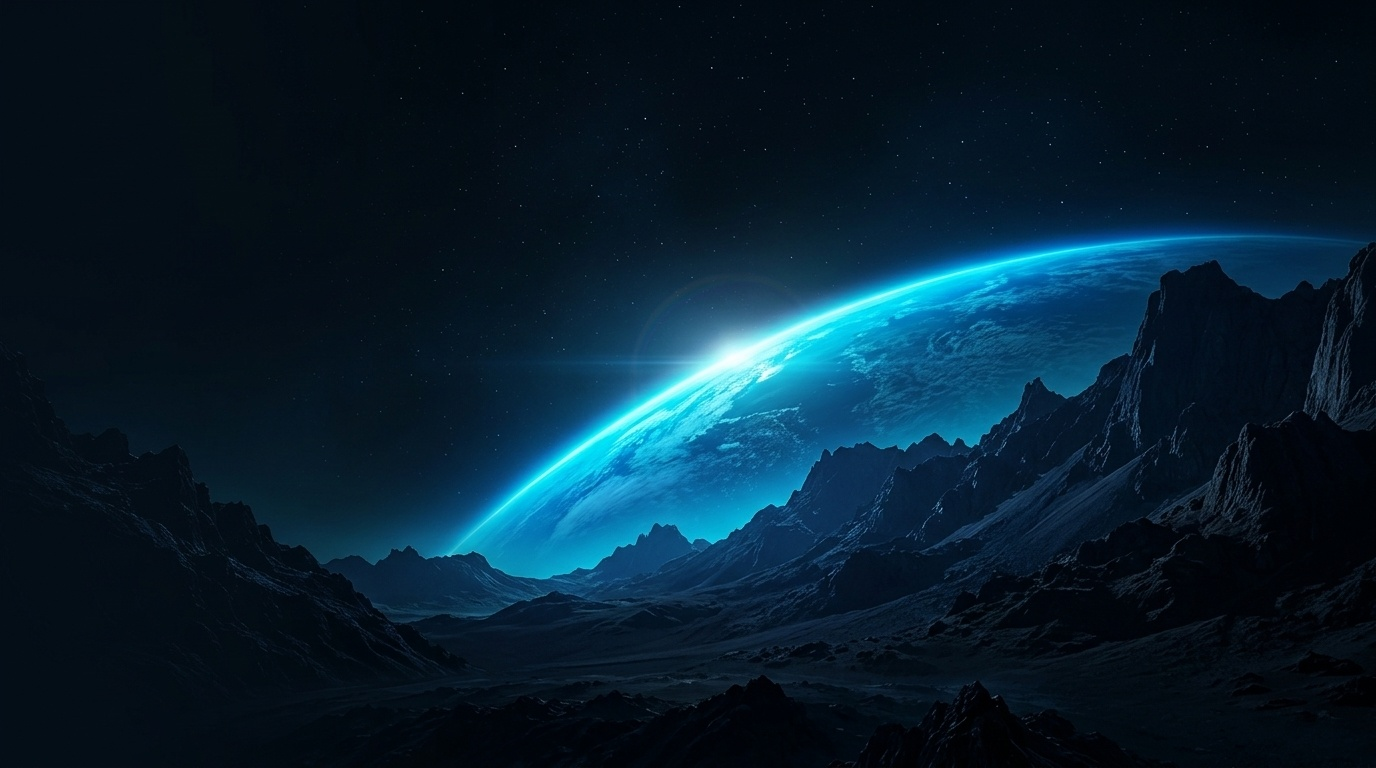
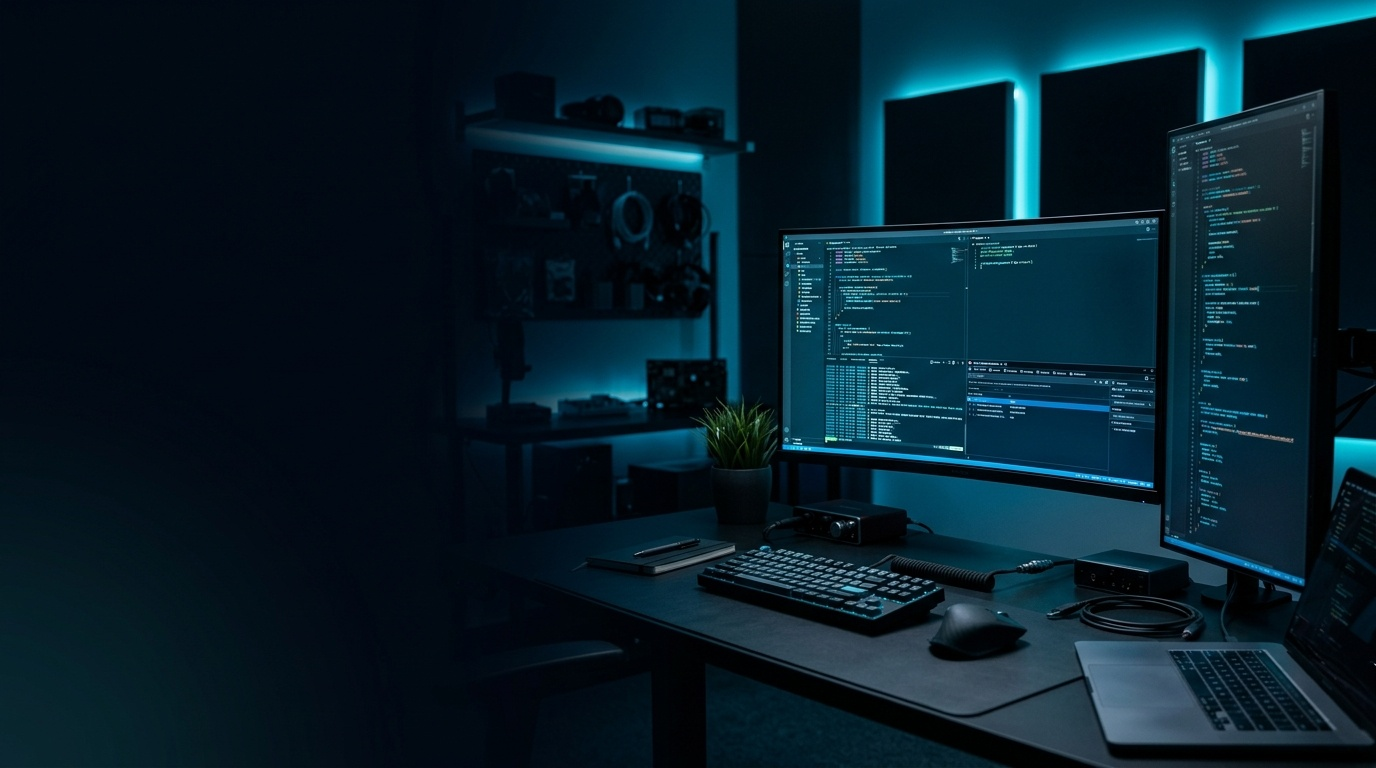
Replace space background in Skills with seamless tech developer workstation: dual code monitors, IDE terminal splits, mechanical keyboard, ambient cyan glow, and perfectly blended gradients

diff --git a/src/components/sections/Skills.jsx b/src/components/sections/Skills.jsx
@@ -127,27 +127,27 @@ export default function Skills() {
     <section id="skills" className="relative min-h-screen pt-10 md:pt-14 pb-16 md:pb-24 overflow-hidden bg-black text-white">
       {/* =========================================================================
           ATMOSPHERIC WORKSPACE BACKGROUND
-          Mountain summit overlooking glowing curved planet Earth with sunrise flare
+          Developer tech workstation with dual code monitors, terminal, keyboard & cyan ambient glow
           ========================================================================= */}
       <div className="absolute inset-0 pointer-events-none z-0 overflow-hidden">
         <picture>
           <source srcSet="/skills-workspace.webp" type="image/webp" />
           <img
             src="/skills-workspace.jpg"
-            alt="Skills Cosmic Workspace"
+            alt="Skills Tech Workspace Studio"
             className="w-full h-full object-cover object-[center_top] opacity-80"
             loading="lazy"
           />
         </picture>
 
-        {/* Seamless top blend with Projects section to eliminate harsh boundaries */}
-        <div className="absolute top-0 inset-x-0 h-32 bg-gradient-to-b from-zinc-950 via-zinc-950/70 to-transparent z-10" />
+        {/* Seamless top blend with Projects section - perfectly connects the developer studio journey */}
+        <div className="absolute top-0 inset-x-0 h-44 bg-gradient-to-b from-zinc-950 via-zinc-950/85 to-transparent z-10" />
 
         {/* Left vignette for maximum typography readability */}
-        <div className="absolute inset-y-0 left-0 w-full sm:w-2/3 lg:w-[46%] bg-gradient-to-r from-black via-black/85 to-transparent z-10" />
+        <div className="absolute inset-y-0 left-0 w-full sm:w-2/3 lg:w-[48%] bg-gradient-to-r from-black via-black/85 to-transparent z-10" />
 
         {/* Bottom fade into Experience section */}
-        <div className="absolute bottom-0 inset-x-0 h-28 bg-gradient-to-t from-zinc-950 via-zinc-950/60 to-transparent z-10" />
+        <div className="absolute bottom-0 inset-x-0 h-36 bg-gradient-to-t from-zinc-950 via-zinc-950/75 to-transparent z-10" />
 
         {/* Subtle atmospheric ambient glow */}
         <div className="absolute top-1/4 right-1/4 w-96 h-96 bg-cyan-600/10 blur-[140px] rounded-full" />

diff --git a/src/components/sections/Projects.jsx b/src/components/sections/Projects.jsx
@@ -82,8 +82,8 @@ export default function Projects() {
         {/* Left vignette for maximum typography readability */}
         <div className="absolute inset-y-0 left-0 w-full sm:w-2/3 lg:w-[52%] bg-gradient-to-r from-black via-black/85 to-transparent z-10" />
 
-        {/* Bottom fade into Skills section */}
-        <div className="absolute bottom-0 inset-x-0 h-28 bg-gradient-to-t from-zinc-950 via-zinc-950/60 to-transparent z-10" />
+        {/* Bottom fade into Skills section - seamless dark studio transition */}
+        <div className="absolute bottom-0 inset-x-0 h-44 bg-gradient-to-t from-zinc-950 via-zinc-950/90 to-transparent z-10" />
 
         {/* Subtle atmospheric ambient glow */}
         <div className="absolute top-1/4 left-1/3 w-96 h-96 bg-blue-600/10 blur-[130px] rounded-full" />
